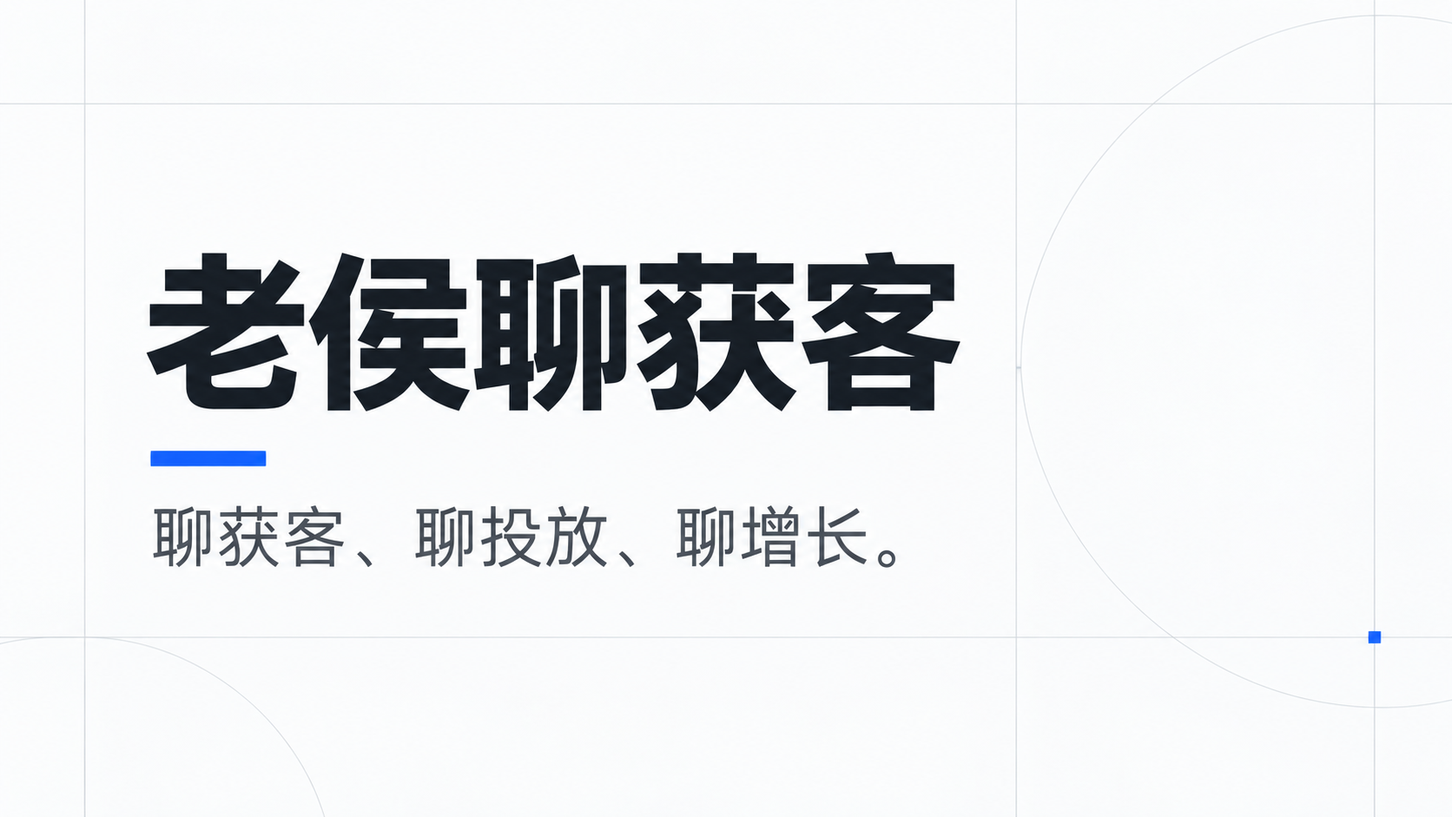
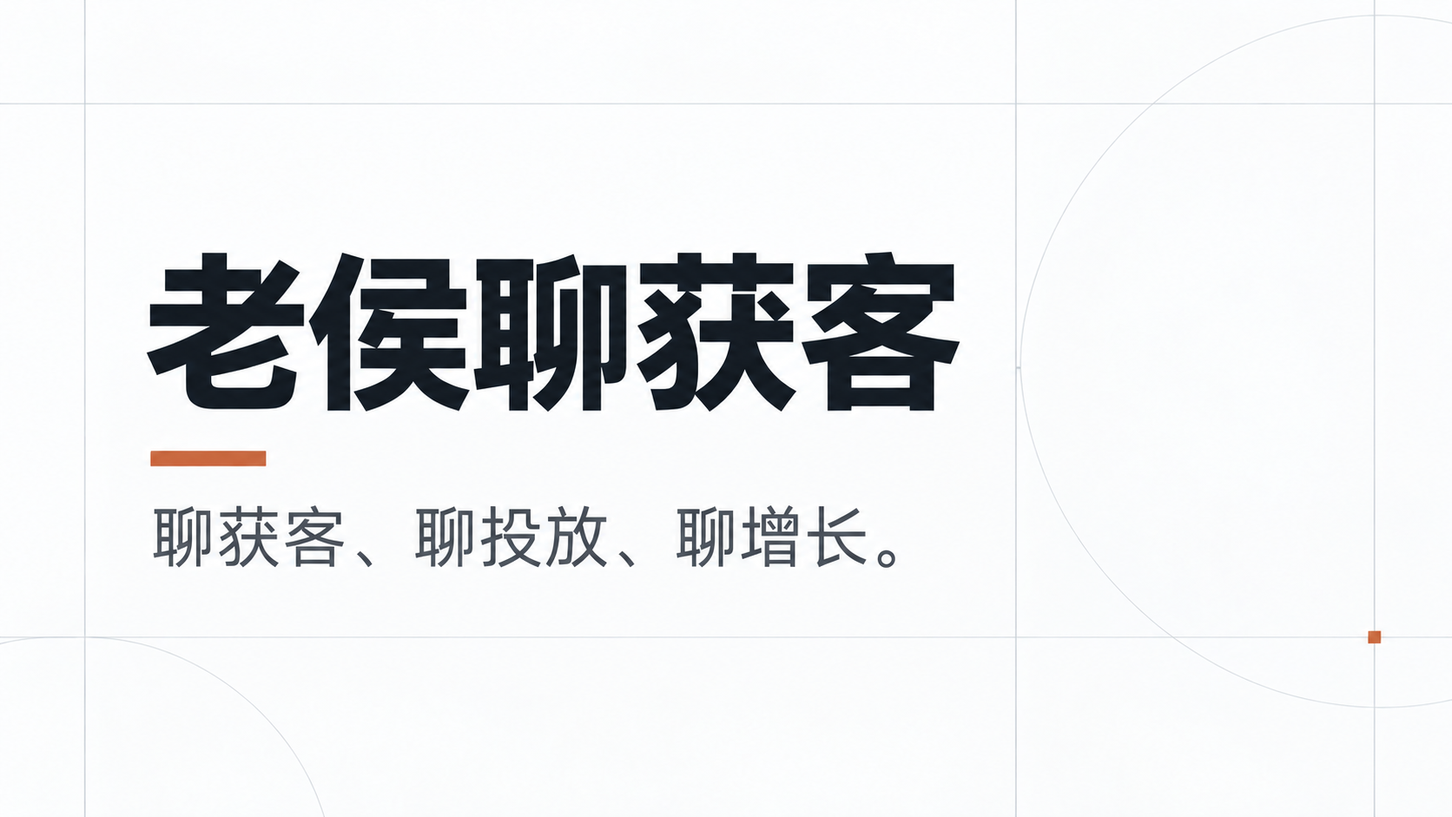
style: replace blue palette with warm tones

diff --git a/assets/style.css b/assets/style.css
@@ -1,32 +1,32 @@
-:root{--bg:#f7f8f7;--panel:#fff;--text:#101828;--muted:#667085;--soft:#98a2b3;--line:#e7e9e7;--blue:#2563eb;--blue-soft:#eef4ff;--green:#18733d;--max:1120px;--radius:14px;--shadow:0 8px 24px rgba(16,24,40,.035)}
+:root{--bg:#F8F6F3;--panel:#FFFDFB;--text:#241C18;--muted:#6F625B;--soft:#9A8B82;--line:#E8E0DA;--accent:#A64B2A;--accent-soft:#F6ECE7;--green:#18733d;--max:1120px;--radius:14px;--shadow:0 8px 24px rgba(65,45,35,.045)}
 *{box-sizing:border-box}html{scroll-behavior:smooth}body{margin:0;background:var(--bg);color:var(--text);font-family:Inter,-apple-system,BlinkMacSystemFont,"Segoe UI","PingFang SC","Hiragino Sans GB","Microsoft YaHei",Arial,sans-serif;line-height:1.72}a{text-decoration:none;color:inherit}img{max-width:100%;display:block}button,input,select{font:inherit}.wrap{width:min(var(--max),calc(100% - 40px));margin:auto}
-.site-header{position:sticky;top:0;z-index:50;background:color-mix(in srgb,var(--bg) 92%,transparent);backdrop-filter:blur(14px);border-bottom:1px solid var(--line)}.header-inner{height:68px;display:grid;grid-template-columns:auto 1fr auto;gap:28px;align-items:center}.logo{font-size:22px;font-weight:850;letter-spacing:-.04em;white-space:nowrap}.nav{display:flex;justify-content:center;gap:24px}.nav a{font-size:13px;color:var(--muted)}.nav a:hover,.nav a.active{color:var(--blue);font-weight:700}.head-actions{display:flex;align-items:center;gap:8px;white-space:nowrap}.contact-link{font-size:13px;color:var(--blue);font-weight:700}.avatar{width:38px;height:38px;border-radius:50%;object-fit:cover;border:2px solid var(--panel)}
-.hero{display:grid;grid-template-columns:1.2fr .8fr;gap:48px;align-items:center;padding:68px 0 56px}.eyebrow{font-size:13px;color:var(--muted);margin-bottom:10px}.hero h1{font-size:52px;line-height:1.08;letter-spacing:-.055em;margin:0 0 16px}.hero h1 span{color:var(--blue)}.hero .slogan{font-size:22px;font-weight:700;margin-bottom:16px}.hero p{font-size:16px;color:var(--muted);max-width:720px;margin:0}.hero-actions{display:flex;gap:12px;flex-wrap:wrap;margin-top:26px}.btn{display:inline-flex;align-items:center;justify-content:center;min-height:44px;padding:0 16px;border-radius:10px;border:1px solid var(--line);font-size:13px;font-weight:700;background:transparent}.btn.primary{background:var(--text);color:var(--bg);border-color:var(--text)}.btn:hover{transform:translateY(-1px)}.avatar-panel{display:flex;justify-content:center}.avatar-xl{width:210px;height:210px;border-radius:50%;object-fit:cover;border:6px solid var(--panel);box-shadow:0 12px 32px rgba(16,24,40,.06)}
-.social-row{display:flex;gap:14px;flex-wrap:wrap;margin-top:24px}.social-item{display:inline-flex;align-items:center;gap:8px;flex:0 0 auto;font-size:13px;color:var(--muted)}.social-item svg{width:22px;height:22px;flex:0 0 22px}.social-item:hover{color:var(--blue)}
-.section{padding:64px 0;border-top:0}.section.divided{border-top:1px solid var(--line)}.section.feature-section{padding:72px 0}.section.compact-section{padding:48px 0}.section-head{display:flex;justify-content:space-between;gap:20px;align-items:end;margin-bottom:24px}.feature-section .section-head{margin-bottom:30px}.section-head h2{font-size:28px;letter-spacing:-.035em;margin:0}.section-head p{font-size:13px;color:var(--muted);margin:5px 0 0}.section-head a{font-size:12px;color:var(--blue)}
-.grid-4{display:grid;grid-template-columns:repeat(4,1fr);gap:14px}.grid-3{display:grid;grid-template-columns:repeat(3,1fr);gap:14px}.card{background:var(--panel);border:1px solid var(--line);border-radius:var(--radius);padding:20px;transition:transform .18s ease,box-shadow .18s ease}.card h3{font-size:18px;line-height:1.45;margin:7px 0}.card p{font-size:13px;color:var(--muted);margin:0}.card .meta{font-size:11px;color:var(--soft)}.card .tag{display:inline-flex;margin-top:14px;padding:5px 9px;border-radius:8px;background:var(--blue-soft);color:var(--blue);font-size:11px;font-weight:700}.card .more{display:inline-block;margin-top:14px;color:var(--blue);font-size:12px;font-weight:700}.card:hover{transform:translateY(-2px);box-shadow:var(--shadow)}
+.site-header{position:sticky;top:0;z-index:50;background:color-mix(in srgb,var(--bg) 92%,transparent);backdrop-filter:blur(14px);border-bottom:1px solid var(--line)}.header-inner{height:68px;display:grid;grid-template-columns:auto 1fr auto;gap:28px;align-items:center}.logo{font-size:22px;font-weight:850;letter-spacing:-.04em;white-space:nowrap}.nav{display:flex;justify-content:center;gap:24px}.nav a{font-size:13px;color:var(--muted)}.nav a:hover,.nav a.active{color:var(--accent);font-weight:700}.head-actions{display:flex;align-items:center;gap:8px;white-space:nowrap}.contact-link{font-size:13px;color:var(--accent);font-weight:700}.avatar{width:38px;height:38px;border-radius:50%;object-fit:cover;border:2px solid var(--panel)}
+.hero{display:grid;grid-template-columns:1.2fr .8fr;gap:48px;align-items:center;padding:68px 0 56px}.eyebrow{font-size:13px;color:var(--muted);margin-bottom:10px}.hero h1{font-size:52px;line-height:1.08;letter-spacing:-.055em;margin:0 0 16px}.hero h1 span{color:var(--accent)}.hero .slogan{font-size:22px;font-weight:700;margin-bottom:16px}.hero p{font-size:16px;color:var(--muted);max-width:720px;margin:0}.hero-actions{display:flex;gap:12px;flex-wrap:wrap;margin-top:26px}.btn{display:inline-flex;align-items:center;justify-content:center;min-height:44px;padding:0 16px;border-radius:10px;border:1px solid var(--line);font-size:13px;font-weight:700;background:transparent}.btn.primary{background:var(--text);color:var(--bg);border-color:var(--text)}.btn:hover{transform:translateY(-1px)}.avatar-panel{display:flex;justify-content:center}.avatar-xl{width:210px;height:210px;border-radius:50%;object-fit:cover;border:6px solid var(--panel);box-shadow:0 12px 32px rgba(16,24,40,.06)}
+.social-row{display:flex;gap:14px;flex-wrap:wrap;margin-top:24px}.social-item{display:inline-flex;align-items:center;gap:8px;flex:0 0 auto;font-size:13px;color:var(--muted)}.social-item svg{width:22px;height:22px;flex:0 0 22px}.social-item:hover{color:var(--accent)}
+.section{padding:64px 0;border-top:0}.section.divided{border-top:1px solid var(--line)}.section.feature-section{padding:72px 0}.section.compact-section{padding:48px 0}.section-head{display:flex;justify-content:space-between;gap:20px;align-items:end;margin-bottom:24px}.feature-section .section-head{margin-bottom:30px}.section-head h2{font-size:28px;letter-spacing:-.035em;margin:0}.section-head p{font-size:13px;color:var(--muted);margin:5px 0 0}.section-head a{font-size:12px;color:var(--accent)}
+.grid-4{display:grid;grid-template-columns:repeat(4,1fr);gap:14px}.grid-3{display:grid;grid-template-columns:repeat(3,1fr);gap:14px}.card{background:var(--panel);border:1px solid var(--line);border-radius:var(--radius);padding:20px;transition:transform .18s ease,box-shadow .18s ease}.card h3{font-size:18px;line-height:1.45;margin:7px 0}.card p{font-size:13px;color:var(--muted);margin:0}.card .meta{font-size:11px;color:var(--soft)}.card .tag{display:inline-flex;margin-top:14px;padding:5px 9px;border-radius:8px;background:var(--accent-soft);color:var(--accent);font-size:11px;font-weight:700}.card .more{display:inline-block;margin-top:14px;color:var(--accent);font-size:12px;font-weight:700}.card:hover{transform:translateY(-2px);box-shadow:var(--shadow)}
 .research-list{display:grid;grid-template-columns:repeat(4,minmax(0,1fr));gap:28px}.research-card{padding:16px 0;background:transparent;border-top:1px solid var(--line);border-radius:0}.research-card b{display:block;font-size:16px;margin-bottom:8px}.research-card span{font-size:13px;color:var(--muted)}
-.page-head{padding:64px 0 30px}.page-head h1{font-size:40px;letter-spacing:-.045em;margin:0 0 9px}.page-head p{color:var(--muted);margin:0;max-width:760px}.filter-bar{display:flex;flex-wrap:wrap;gap:8px;margin:18px 0}.filter-btn{border:1px solid var(--line);background:var(--panel);color:var(--muted);border-radius:10px;padding:8px 12px;font-size:12px;cursor:pointer}.filter-btn.active{background:var(--text);color:var(--bg);border-color:var(--text)}.search-input{width:100%;min-height:46px;border:1px solid var(--line);border-radius:10px;background:var(--panel);color:var(--text);padding:0 14px;outline:none}.search-input:focus{border-color:var(--blue);box-shadow:0 0 0 3px var(--blue-soft)}
-.list{display:grid;gap:12px;padding:8px 0 48px}.list-item{background:var(--panel);border:1px solid var(--line);border-radius:14px;padding:19px 20px}.list-item .meta{font-size:11px;color:var(--soft)}.list-item h2{font-size:21px;margin:4px 0 6px}.list-item p{font-size:13px;color:var(--muted);margin:0}.list-item .more{display:inline-block;margin-top:10px;font-size:12px;color:var(--blue);font-weight:700}
-.tool-grid{display:grid;grid-template-columns:repeat(3,1fr);gap:14px;padding-bottom:48px}.tool-card{background:var(--panel);border:1px solid var(--line);border-radius:14px;padding:20px}.tool-card h3{margin:7px 0;font-size:18px}.tool-card p{margin:0;color:var(--muted);font-size:13px}.tool-card .icon{width:42px;height:42px;border-radius:10px;background:var(--blue-soft);color:var(--blue);display:grid;place-items:center;font-weight:800}
-.tool-shell{max-width:920px;margin:0 auto;padding:56px 0 80px}.tool-shell h1{font-size:38px;margin:0 0 8px}.tool-shell .lead{color:var(--muted);margin-bottom:24px}.form-grid{display:grid;grid-template-columns:repeat(2,1fr);gap:14px}.field label{display:block;font-size:12px;color:var(--muted);margin-bottom:6px}.field input{width:100%;height:44px;border:1px solid var(--line);border-radius:10px;padding:0 12px;background:var(--panel);color:var(--text)}.result-grid{display:grid;grid-template-columns:repeat(4,1fr);gap:10px;margin-top:20px}.result{background:var(--panel);border:1px solid var(--line);border-radius:14px;padding:14px}.result span{display:block;font-size:11px;color:var(--soft)}.result b{font-size:20px}.notice{margin-top:18px;padding:14px 16px;background:var(--panel);border-left:3px solid var(--blue);font-size:13px;color:var(--muted)}.error{color:#b42318;font-size:12px;margin-top:10px}.funnel{display:grid;gap:8px;margin-top:22px}.funnel-row{margin:auto;background:var(--blue-soft);border:1px solid var(--line);border-radius:10px;padding:12px 8px;text-align:center;min-width:10%;transition:width .2s ease}.funnel-row b{display:block;white-space:nowrap}.funnel-row small{color:var(--muted);display:block;white-space:nowrap}.empty-result{padding:28px;text-align:center;color:var(--soft);background:var(--panel);border:1px solid var(--line);border-radius:14px}
-.service-grid{display:grid;grid-template-columns:repeat(2,1fr);gap:18px;padding-bottom:64px}.service-card{background:var(--panel);border:1px solid var(--line);border-radius:14px;padding:24px}.service-card h2{font-size:22px;margin:12px 0 8px}.service-card p{font-size:13px;color:var(--muted)}.service-card h3{font-size:14px;margin-top:18px}.service-card ul{padding-left:18px;color:var(--muted);font-size:13px}.service-value{font-size:15px!important;color:var(--text)!important;margin:0 0 22px!important}.service-fit{padding-top:16px;border-top:1px solid var(--line)}.service-fit strong{font-size:12px}.service-fit p{margin:5px 0 0}.price-note{display:inline-flex;padding:5px 8px;border-radius:8px;background:var(--blue-soft);color:var(--muted);font-size:11px}.service-details{margin:20px 0}.service-details summary{display:inline-flex;align-items:center;min-height:42px;color:var(--blue);font-size:13px;font-weight:700;cursor:pointer;list-style:none}.service-details summary::-webkit-details-marker{display:none}.service-details summary:after{content:"＋";margin-left:6px}.service-details[open] summary:after{content:"－"}.service-details>div{padding:4px 0 16px;border-top:1px solid var(--line)}
+.page-head{padding:64px 0 30px}.page-head h1{font-size:40px;letter-spacing:-.045em;margin:0 0 9px}.page-head p{color:var(--muted);margin:0;max-width:760px}.filter-bar{display:flex;flex-wrap:wrap;gap:8px;margin:18px 0}.filter-btn{border:1px solid var(--line);background:var(--panel);color:var(--muted);border-radius:10px;padding:8px 12px;font-size:12px;cursor:pointer}.filter-btn.active{background:var(--text);color:var(--bg);border-color:var(--text)}.search-input{width:100%;min-height:46px;border:1px solid var(--line);border-radius:10px;background:var(--panel);color:var(--text);padding:0 14px;outline:none}.search-input:focus{border-color:var(--accent);box-shadow:0 0 0 3px var(--accent-soft)}
+.list{display:grid;gap:12px;padding:8px 0 48px}.list-item{background:var(--panel);border:1px solid var(--line);border-radius:14px;padding:19px 20px}.list-item .meta{font-size:11px;color:var(--soft)}.list-item h2{font-size:21px;margin:4px 0 6px}.list-item p{font-size:13px;color:var(--muted);margin:0}.list-item .more{display:inline-block;margin-top:10px;font-size:12px;color:var(--accent);font-weight:700}
+.tool-grid{display:grid;grid-template-columns:repeat(3,1fr);gap:14px;padding-bottom:48px}.tool-card{background:var(--panel);border:1px solid var(--line);border-radius:14px;padding:20px}.tool-card h3{margin:7px 0;font-size:18px}.tool-card p{margin:0;color:var(--muted);font-size:13px}.tool-card .icon{width:42px;height:42px;border-radius:10px;background:var(--accent-soft);color:var(--accent);display:grid;place-items:center;font-weight:800}
+.tool-shell{max-width:920px;margin:0 auto;padding:56px 0 80px}.tool-shell h1{font-size:38px;margin:0 0 8px}.tool-shell .lead{color:var(--muted);margin-bottom:24px}.form-grid{display:grid;grid-template-columns:repeat(2,1fr);gap:14px}.field label{display:block;font-size:12px;color:var(--muted);margin-bottom:6px}.field input{width:100%;height:44px;border:1px solid var(--line);border-radius:10px;padding:0 12px;background:var(--panel);color:var(--text)}.result-grid{display:grid;grid-template-columns:repeat(4,1fr);gap:10px;margin-top:20px}.result{background:var(--panel);border:1px solid var(--line);border-radius:14px;padding:14px}.result span{display:block;font-size:11px;color:var(--soft)}.result b{font-size:20px}.notice{margin-top:18px;padding:14px 16px;background:var(--panel);border-left:3px solid var(--accent);font-size:13px;color:var(--muted)}.error{color:#b42318;font-size:12px;margin-top:10px}.funnel{display:grid;gap:8px;margin-top:22px}.funnel-row{margin:auto;background:var(--accent-soft);border:1px solid var(--line);border-radius:10px;padding:12px 8px;text-align:center;min-width:10%;transition:width .2s ease}.funnel-row b{display:block;white-space:nowrap}.funnel-row small{color:var(--muted);display:block;white-space:nowrap}.empty-result{padding:28px;text-align:center;color:var(--soft);background:var(--panel);border:1px solid var(--line);border-radius:14px}
+.service-grid{display:grid;grid-template-columns:repeat(2,1fr);gap:18px;padding-bottom:64px}.service-card{background:var(--panel);border:1px solid var(--line);border-radius:14px;padding:24px}.service-card h2{font-size:22px;margin:12px 0 8px}.service-card p{font-size:13px;color:var(--muted)}.service-card h3{font-size:14px;margin-top:18px}.service-card ul{padding-left:18px;color:var(--muted);font-size:13px}.service-value{font-size:15px!important;color:var(--text)!important;margin:0 0 22px!important}.service-fit{padding-top:16px;border-top:1px solid var(--line)}.service-fit strong{font-size:12px}.service-fit p{margin:5px 0 0}.price-note{display:inline-flex;padding:5px 8px;border-radius:8px;background:var(--accent-soft);color:var(--muted);font-size:11px}.service-details{margin:20px 0}.service-details summary{display:inline-flex;align-items:center;min-height:42px;color:var(--accent);font-size:13px;font-weight:700;cursor:pointer;list-style:none}.service-details summary::-webkit-details-marker{display:none}.service-details summary:after{content:"＋";margin-left:6px}.service-details[open] summary:after{content:"－"}.service-details>div{padding:4px 0 16px;border-top:1px solid var(--line)}
 .contact-grid{display:grid;grid-template-columns:1fr 1fr;gap:18px;padding-bottom:64px}.contact-card{background:var(--panel);border:1px solid var(--line);border-radius:14px;padding:20px}.contact-card h3{margin:0 0 7px}.contact-card p{color:var(--muted);font-size:13px}.qr{width:150px;height:150px;object-fit:contain;border:1px solid var(--line);border-radius:10px;background:var(--panel)}
-.article{max-width:760px;margin:0 auto;padding:64px 0 84px}.article .meta{font-size:12px;color:var(--soft)}.article h1{font-size:40px;line-height:1.3;letter-spacing:-.04em;margin:8px 0 22px}.article .lead{font-size:18px;color:var(--muted)}.article h2{font-size:24px;margin-top:36px}.article p,.article li{font-size:16px;color:var(--muted)}.article blockquote{margin:26px 0;padding:2px 0 2px 18px;border-left:3px solid var(--blue);color:var(--muted)}.article-footer{margin-top:52px;padding-top:28px;border-top:1px solid var(--line)}.article-nav{display:grid;grid-template-columns:1fr 1fr;gap:12px}.article-nav a{display:block;background:var(--panel);border:1px solid var(--line);border-radius:10px;padding:14px}.article-nav a:last-child{text-align:right}.article-nav span{display:block;color:var(--soft);font-size:11px}.article-nav b{display:block;margin-top:4px;font-size:13px;line-height:1.5}.related-title{font-size:18px!important;margin:30px 0 12px!important}.related-grid{display:grid;grid-template-columns:repeat(3,1fr);gap:10px}.related-grid a{background:var(--panel);border:1px solid var(--line);border-radius:10px;padding:12px;font-size:12px;line-height:1.55;color:var(--muted)}.back{display:inline-block;margin-top:28px;color:var(--blue);font-size:13px;font-weight:700}.filter-label{width:100%;margin-top:8px;color:var(--muted);font-size:12px;font-weight:700}
+.article{max-width:760px;margin:0 auto;padding:64px 0 84px}.article .meta{font-size:12px;color:var(--soft)}.article h1{font-size:40px;line-height:1.3;letter-spacing:-.04em;margin:8px 0 22px}.article .lead{font-size:18px;color:var(--muted)}.article h2{font-size:24px;margin-top:36px}.article p,.article li{font-size:16px;color:var(--muted)}.article blockquote{margin:26px 0;padding:2px 0 2px 18px;border-left:3px solid var(--accent);color:var(--muted)}.article-footer{margin-top:52px;padding-top:28px;border-top:1px solid var(--line)}.article-nav{display:grid;grid-template-columns:1fr 1fr;gap:12px}.article-nav a{display:block;background:var(--panel);border:1px solid var(--line);border-radius:10px;padding:14px}.article-nav a:last-child{text-align:right}.article-nav span{display:block;color:var(--soft);font-size:11px}.article-nav b{display:block;margin-top:4px;font-size:13px;line-height:1.5}.related-title{font-size:18px!important;margin:30px 0 12px!important}.related-grid{display:grid;grid-template-columns:repeat(3,1fr);gap:10px}.related-grid a{background:var(--panel);border:1px solid var(--line);border-radius:10px;padding:12px;font-size:12px;line-height:1.55;color:var(--muted)}.back{display:inline-block;margin-top:28px;color:var(--accent);font-size:13px;font-weight:700}.filter-label{width:100%;margin-top:8px;color:var(--muted);font-size:12px;font-weight:700}
 .home-cta{padding:34px;background:var(--panel);border:1px solid var(--line);border-radius:18px}.home-cta h2{font-size:28px;letter-spacing:-.035em;margin:0 0 10px}.home-cta p{max-width:780px;margin:0;color:var(--muted)}.home-cta .btn{margin-top:20px}.home-cta small{display:block;margin-top:12px;color:var(--muted)}
-.timeline{max-width:820px;display:grid;gap:0}.timeline-item{display:grid;grid-template-columns:90px 1fr;gap:22px;padding:0 0 28px}.timeline-year{font-size:13px;font-weight:800;color:var(--blue)}.timeline-copy{position:relative;padding-left:22px;color:var(--muted);font-size:14px}.timeline-item:not(:last-child) .timeline-copy{border-left:1px solid var(--line)}.timeline-copy:before{content:"";position:absolute;left:-6px;top:6px;width:11px;height:11px;border:2px solid var(--blue);border-radius:50%;background:var(--bg)}
-.checklist{max-width:860px;margin:0 auto;padding:56px 0 80px}.checklist-intro{color:var(--muted);max-width:720px}.checklist-grid{display:grid;grid-template-columns:1fr 1fr;gap:14px;margin-top:24px}.checklist-group{background:var(--panel);border:1px solid var(--line);border-radius:14px;padding:18px}.checklist-group h2{font-size:18px;margin:0 0 10px}.checklist-group label{display:flex;align-items:flex-start;gap:9px;padding:7px 0;color:var(--muted);font-size:13px;cursor:pointer}.checklist-group input{margin-top:4px;accent-color:var(--blue);flex:0 0 auto}
-.footer{margin-top:64px;border-top:1px solid var(--line);padding:48px 0 30px;color:var(--muted);font-size:12px}.footer-grid{display:grid;grid-template-columns:1.4fr 1fr 1fr;gap:28px}.footer-brand>a{font-size:18px;font-weight:800;color:var(--text)}.footer-brand p{margin:8px 0 0}.footer-links,.footer-social{display:grid;grid-template-columns:repeat(2,max-content);align-content:start;gap:8px 20px}.footer-links a:hover,.footer-social a:hover{color:var(--blue)}.footer-meta{grid-column:1/-1;padding-top:22px;border-top:1px solid var(--line);color:var(--soft)}.backtop{position:fixed;right:22px;bottom:22px;width:42px;height:42px;border:1px solid var(--line);border-radius:50%;background:var(--panel);color:var(--text);box-shadow:var(--shadow);display:none;place-items:center;cursor:pointer}.backtop.show{display:grid}
+.timeline{max-width:820px;display:grid;gap:0}.timeline-item{display:grid;grid-template-columns:90px 1fr;gap:22px;padding:0 0 28px}.timeline-year{font-size:13px;font-weight:800;color:var(--accent)}.timeline-copy{position:relative;padding-left:22px;color:var(--muted);font-size:14px}.timeline-item:not(:last-child) .timeline-copy{border-left:1px solid var(--line)}.timeline-copy:before{content:"";position:absolute;left:-6px;top:6px;width:11px;height:11px;border:2px solid var(--accent);border-radius:50%;background:var(--bg)}
+.checklist{max-width:860px;margin:0 auto;padding:56px 0 80px}.checklist-intro{color:var(--muted);max-width:720px}.checklist-grid{display:grid;grid-template-columns:1fr 1fr;gap:14px;margin-top:24px}.checklist-group{background:var(--panel);border:1px solid var(--line);border-radius:14px;padding:18px}.checklist-group h2{font-size:18px;margin:0 0 10px}.checklist-group label{display:flex;align-items:flex-start;gap:9px;padding:7px 0;color:var(--muted);font-size:13px;cursor:pointer}.checklist-group input{margin-top:4px;accent-color:var(--accent);flex:0 0 auto}
+.footer{margin-top:64px;border-top:1px solid var(--line);padding:48px 0 30px;color:var(--muted);font-size:12px}.footer-grid{display:grid;grid-template-columns:1.4fr 1fr 1fr;gap:28px}.footer-brand>a{font-size:18px;font-weight:800;color:var(--text)}.footer-brand p{margin:8px 0 0}.footer-links,.footer-social{display:grid;grid-template-columns:repeat(2,max-content);align-content:start;gap:8px 20px}.footer-links a:hover,.footer-social a:hover{color:var(--accent)}.footer-meta{grid-column:1/-1;padding-top:22px;border-top:1px solid var(--line);color:var(--soft)}.backtop{position:fixed;right:22px;bottom:22px;width:42px;height:42px;border:1px solid var(--line);border-radius:50%;background:var(--panel);color:var(--text);box-shadow:var(--shadow);display:none;place-items:center;cursor:pointer}.backtop.show{display:grid}
 @media(max-width:900px){.grid-4{grid-template-columns:1fr 1fr}.grid-3,.tool-grid{grid-template-columns:1fr 1fr}.hero{grid-template-columns:1fr}.avatar-panel{justify-content:flex-start}.avatar-xl{width:150px;height:150px}.result-grid{grid-template-columns:1fr 1fr}}
 @media(max-width:720px){.header-inner{height:auto;min-height:64px;grid-template-columns:minmax(0,1fr) auto;gap:10px 14px;padding:10px 0}.nav{grid-column:1/-1;display:flex;justify-content:flex-start;gap:8px 16px;overflow-x:auto;-webkit-overflow-scrolling:touch;scrollbar-width:none;padding-bottom:8px}.nav::-webkit-scrollbar{display:none}.nav a{white-space:nowrap}.head-actions{justify-content:flex-end;flex-shrink:0}.contact-link{display:inline-flex}.wrap{width:min(var(--max),calc(100% - 24px))}.hero{padding:42px 0}.hero h1{font-size:40px}.grid-4,.grid-3,.tool-grid,.service-grid,.contact-grid,.form-grid,.checklist-grid{grid-template-columns:1fr}.result-grid{grid-template-columns:1fr 1fr}.article h1{font-size:32px}.article-nav,.related-grid{grid-template-columns:1fr}.article-nav a:last-child{text-align:left}.funnel-row{min-width:20%}.funnel-row small{white-space:normal}.timeline-item{grid-template-columns:68px 1fr;gap:10px}.home-cta{padding:22px}.footer-inner{flex-direction:column}}
 
 /* V8 creator profile, article system and theme controls */
-html[data-theme="dark"]{--bg:#121212;--panel:#1b1b1b;--text:#f5f5f5;--muted:#b7b7b7;--soft:#8b8b8b;--line:#2c2c2c;--blue:#6ea8ff;--blue-soft:#17233a;--shadow:0 8px 24px rgba(0,0,0,.16);color-scheme:dark}
+html[data-theme="dark"]{--bg:#171311;--panel:#211B18;--text:#F7F0EA;--muted:#C1B5AC;--soft:#95877D;--line:#3A302B;--accent:#E5A078;--accent-soft:#34241D;--shadow:0 8px 24px rgba(0,0,0,.2);color-scheme:dark}
 .site-header{background:color-mix(in srgb,var(--bg) 92%,transparent)}
 .header-icon{width:34px;height:34px;border:0;border-radius:9px;background:transparent;color:var(--muted);display:inline-grid;place-items:center;cursor:pointer;font-size:13px;font-weight:750}.language-switch{width:auto;padding:0 7px}.header-icon:hover{background:color-mix(in srgb,var(--text) 7%,transparent);color:var(--text)}.theme-toggle svg{width:18px;height:18px;fill:none;stroke:currentColor;stroke-width:1.8;stroke-linecap:round;stroke-linejoin:round}.moon-icon{display:none}html[data-theme="dark"] .sun-icon{display:none}html[data-theme="dark"] .moon-icon{display:block}
-.creator-hero{display:grid;grid-template-columns:minmax(240px,35%) minmax(0,65%);gap:72px;align-items:start;padding:76px 0 68px}.creator-profile{padding:4px 0;background:transparent;border:0;border-radius:0;box-shadow:none}.creator-profile .avatar-xl{width:132px;height:132px;margin-bottom:22px}.creator-profile h1{font-size:34px;line-height:1.15;margin:0 0 8px}.creator-role{font-weight:700;margin:0 0 5px}.creator-slogan{color:var(--muted);margin:0}.creator-about{padding:8px 0}.creator-about .eyebrow{color:var(--blue);font-weight:750}.creator-about h2{font-size:42px;letter-spacing:-.045em;margin:0 0 22px}.creator-about p{color:var(--muted);margin:0 0 14px}.creator-about .more{display:inline-block;margin-top:10px;color:var(--blue);font-weight:750;font-size:13px}
-.article-grid{display:grid;grid-template-columns:repeat(3,minmax(0,1fr));gap:18px;padding:8px 0 24px}.article-card{min-width:0;overflow:hidden;background:var(--panel);border:1px solid var(--line);border-radius:14px;transition:transform .18s ease,box-shadow .18s ease}.article-card:hover{transform:translateY(-2px);box-shadow:var(--shadow)}.article-cover{width:100%;aspect-ratio:16/9;object-fit:cover;background:var(--blue-soft)}.article-card-body{display:flex;flex-direction:column;min-height:238px;padding:17px 18px 19px}.article-card-category{font-size:11px;color:var(--blue);font-weight:750}.article-card h2{display:-webkit-box;-webkit-line-clamp:2;-webkit-box-orient:vertical;overflow:hidden;min-height:2.9em;font-size:19px;line-height:1.45;margin:8px 0}.article-card p{display:-webkit-box;-webkit-line-clamp:3;-webkit-box-orient:vertical;overflow:hidden;min-height:4.65em;color:var(--muted);font-size:13px;margin:0}.article-card-footer{display:flex;justify-content:space-between;gap:12px;margin-top:auto;padding-top:16px;font-size:11px;color:var(--soft)}.article-hero-cover{width:100%;aspect-ratio:16/9;object-fit:cover;border:1px solid var(--line);border-radius:14px;margin:22px 0 30px}.wechat-source{margin-top:28px;padding:16px;background:var(--blue-soft);border-radius:10px;color:var(--muted);font-size:13px}.wechat-source a{color:var(--blue);font-weight:750}
-.about-hero{display:grid;grid-template-columns:minmax(240px,35%) minmax(0,65%);gap:72px;padding:72px 0 64px}.about-side .avatar-xl{width:124px;height:124px;margin-bottom:20px}.about-side h1{font-size:34px;margin:0 0 8px}.about-copy h2{font-size:42px;letter-spacing:-.045em;margin:0 0 22px}.about-copy p{color:var(--muted);margin:0 0 14px}.profile-links{display:flex;flex-wrap:wrap;gap:8px 16px;margin-top:20px}.profile-links a{font-size:12px;color:var(--muted)}.profile-links a:hover{color:var(--blue)}
+.creator-hero{display:grid;grid-template-columns:minmax(240px,35%) minmax(0,65%);gap:72px;align-items:start;padding:76px 0 68px}.creator-profile{padding:4px 0;background:transparent;border:0;border-radius:0;box-shadow:none}.creator-profile .avatar-xl{width:132px;height:132px;margin-bottom:22px}.creator-profile h1{font-size:34px;line-height:1.15;margin:0 0 8px}.creator-role{font-weight:700;margin:0 0 5px}.creator-slogan{color:var(--muted);margin:0}.creator-about{padding:8px 0}.creator-about .eyebrow{color:var(--accent);font-weight:750}.creator-about h2{font-size:42px;letter-spacing:-.045em;margin:0 0 22px}.creator-about p{color:var(--muted);margin:0 0 14px}.creator-about .more{display:inline-block;margin-top:10px;color:var(--accent);font-weight:750;font-size:13px}
+.article-grid{display:grid;grid-template-columns:repeat(3,minmax(0,1fr));gap:18px;padding:8px 0 24px}.article-card{min-width:0;overflow:hidden;background:var(--panel);border:1px solid var(--line);border-radius:14px;transition:transform .18s ease,box-shadow .18s ease}.article-card:hover{transform:translateY(-2px);box-shadow:var(--shadow)}.article-cover{width:100%;aspect-ratio:16/9;object-fit:cover;background:var(--accent-soft)}.article-card-body{display:flex;flex-direction:column;min-height:238px;padding:17px 18px 19px}.article-card-category{font-size:11px;color:var(--accent);font-weight:750}.article-card h2{display:-webkit-box;-webkit-line-clamp:2;-webkit-box-orient:vertical;overflow:hidden;min-height:2.9em;font-size:19px;line-height:1.45;margin:8px 0}.article-card p{display:-webkit-box;-webkit-line-clamp:3;-webkit-box-orient:vertical;overflow:hidden;min-height:4.65em;color:var(--muted);font-size:13px;margin:0}.article-card-footer{display:flex;justify-content:space-between;gap:12px;margin-top:auto;padding-top:16px;font-size:11px;color:var(--soft)}.article-hero-cover{width:100%;aspect-ratio:16/9;object-fit:cover;border:1px solid var(--line);border-radius:14px;margin:22px 0 30px}.wechat-source{margin-top:28px;padding:16px;background:var(--accent-soft);border-radius:10px;color:var(--muted);font-size:13px}.wechat-source a{color:var(--accent);font-weight:750}
+.about-hero{display:grid;grid-template-columns:minmax(240px,35%) minmax(0,65%);gap:72px;padding:72px 0 64px}.about-side .avatar-xl{width:124px;height:124px;margin-bottom:20px}.about-side h1{font-size:34px;margin:0 0 8px}.about-copy h2{font-size:42px;letter-spacing:-.045em;margin:0 0 22px}.about-copy p{color:var(--muted);margin:0 0 14px}.profile-links{display:flex;flex-wrap:wrap;gap:8px 16px;margin-top:20px}.profile-links a{font-size:12px;color:var(--muted)}.profile-links a:hover{color:var(--accent)}
 html[data-theme="dark"] .btn.primary,html[data-theme="dark"] .filter-btn.active{background:var(--text);color:var(--bg)}html[data-theme="dark"] .avatar,html[data-theme="dark"] .avatar-xl{border-color:var(--panel)}
 @media(max-width:900px){.creator-hero,.about-hero{grid-template-columns:1fr;gap:34px}.creator-profile{display:grid;grid-template-columns:auto 1fr;column-gap:20px}.creator-profile .avatar-xl,.creator-profile .social-row{grid-row:auto}.creator-profile .social-row{grid-column:1/-1}.article-grid{grid-template-columns:repeat(2,minmax(0,1fr))}.research-list{grid-template-columns:repeat(2,minmax(0,1fr))}.footer-grid{grid-template-columns:1fr 1fr}.footer-brand{grid-column:1/-1}}
 @media(max-width:720px){.logo{font-size:19px}.head-actions{gap:2px}.header-icon{height:32px}.language-switch{font-size:12px}.contact-link{font-size:12px}.creator-hero,.about-hero{padding:44px 0 48px}.creator-profile{display:block;padding:0}.creator-profile .avatar-xl,.about-side .avatar-xl{width:104px;height:104px}.creator-about h2,.about-copy h2{font-size:34px}.section{padding:44px 0}.section.feature-section{padding:52px 0}.section.compact-section{padding:36px 0}.article-grid,.research-list{grid-template-columns:1fr}.article-card-body{min-height:220px}.footer-grid{grid-template-columns:1fr}.footer-brand{grid-column:auto}.footer-links,.footer-social{grid-template-columns:repeat(3,max-content)}.footer-meta{grid-column:auto}.service-card{padding:20px}}

diff --git a/index.html b/index.html
@@ -1,7 +1,7 @@
 <!doctype html><html lang="zh-CN"><head><meta charset="utf-8"><link rel="icon" href="/assets/favicon.svg" type="image/svg+xml"><meta name="viewport" content="width=device-width,initial-scale=1"><title>老侯聊获客｜聊获客、聊投放、聊增长</title><meta name="description" content="老侯聊获客：企业获客、广告投放、线索转化与商业增长实战内容、工具和服务。"><link rel="canonical" href="https://2224878257-pixel.github.io/"><link rel="alternate" hreflang="en" href="https://2224878257-pixel.github.io/en/"><meta property="og:title" content="老侯聊获客｜聊获客、聊投放、聊增长"><meta property="og:description" content="老侯聊获客：企业获客、广告投放、线索转化与商业增长实战内容、工具和服务。"><meta property="og:type" content="website"><meta property="og:url" content="https://2224878257-pixel.github.io/"><script src="/assets/theme-init.js"></script><link rel="stylesheet" href="/assets/style.css"><meta property="og:image" content="https://2224878257-pixel.github.io/assets/og-cover.png"><meta name="twitter:card" content="summary_large_image"></head><body>
 <header class="site-header"><div class="wrap header-inner"><a class="logo" href="/">老侯聊获客</a><nav class="nav"><a href="/about/">关于我</a><a href="/cases/">实战案例</a><a href="/articles/">文章</a><a href="/tools/">工具</a><a href="/services/">专业服务</a></nav><div class="head-actions"><a class="header-icon language-switch" href="/en/" aria-label="Switch to English">中 / EN</a><button class="header-icon theme-toggle" type="button" aria-label="切换深色模式"><svg class="sun-icon" viewBox="0 0 24 24" aria-hidden="true"><circle cx="12" cy="12" r="4"/><path d="M12 2v2M12 20v2M4.9 4.9l1.4 1.4M17.7 17.7l1.4 1.4M2 12h2M20 12h2M4.9 19.1l1.4-1.4M17.7 6.3l1.4-1.4"/></svg><svg class="moon-icon" viewBox="0 0 24 24" aria-hidden="true"><path d="M20 15.2A8.5 8.5 0 0 1 8.8 4 8.5 8.5 0 1 0 20 15.2Z"/></svg></button><a class="contact-link" href="/contact/">联系我</a></div></div></header>
 <main><div class="wrap">
-<section class="creator-hero"><div class="creator-profile"><img class="avatar-xl" src="https://avatars.githubusercontent.com/u/267829894?v=4" alt="老侯头像"><h1>老侯</h1><p class="creator-role">企业获客与商业增长实战顾问</p><p class="creator-slogan">聊获客、聊投放、聊增长。</p><div class="social-row"><a class="social-item" href="/contact/" aria-label="微信公众号"><svg viewBox="0 0 24 24" aria-hidden="true"><path d="M10 4C5.6 4 2 6.8 2 10.2c0 2 1.2 3.8 3.1 4.9l-.8 2.4 2.9-1.4c.9.2 1.8.4 2.8.4 4.4 0 8-2.8 8-6.3S14.4 4 10 4Z" fill="#07c160"/><path d="M15.3 9.2c3.7 0 6.7 2.3 6.7 5.2 0 1.7-1 3.2-2.5 4.1l.6 2-2.3-1.1c-.8.2-1.6.3-2.5.3-3.7 0-6.7-2.3-6.7-5.2s3-5.3 6.7-5.3Z" fill="#07c160"/></svg><span>微信公众号</span></a><a class="social-item" data-config-link="xiaohongshu" href="#" target="_blank" rel="noopener"><svg viewBox="0 0 24 24" aria-hidden="true"><rect x="1.5" y="1.5" width="21" height="21" rx="6" fill="#ff2442"/><path d="M6.5 6.7h8.2a2.8 2.8 0 0 1 2.8 2.8v7.8H9.3a2.8 2.8 0 0 1-2.8-2.8V6.7Z" fill="none" stroke="#fff" stroke-width="1.7"/></svg><span>小红书</span></a><a class="social-item" data-config-link="douyin" href="#" target="_blank" rel="noopener"><svg viewBox="0 0 24 24" aria-hidden="true"><rect x="1.5" y="1.5" width="21" height="21" rx="6" fill="#111"/><path d="M13 6v7.2a3.4 3.4 0 1 1-2.2-3.2v2.2a1.55 1.55 0 1 0 .45 1.1V6h1.75c.32 1.7 1.4 2.9 3.05 3.45v1.85A6.4 6.4 0 0 1 13 10" fill="#fff"/></svg><span>抖音</span></a><a class="social-item" data-config-link="x" href="#" target="_blank" rel="noopener"><svg viewBox="0 0 24 24" aria-hidden="true"><rect x="1.5" y="1.5" width="21" height="21" rx="6" fill="#111"/><path d="M7 6.5h2.6l2.9 3.85 3.2-3.85h1.7l-4.1 4.95 4.45 6.05h-2.6l-3.28-4.4-3.65 4.4H6.5l4.55-5.5z" fill="#fff"/></svg><span>X</span></a><a class="social-item" data-config-link="email" href="#"><svg viewBox="0 0 24 24" aria-hidden="true"><rect x="1.5" y="3.5" width="21" height="17" rx="4" fill="#2563eb"/><path d="m4.8 7.2 7.2 5.2 7.2-5.2" fill="none" stroke="#fff" stroke-width="1.7"/></svg><span>邮箱</span></a></div></div><div class="creator-about"><div class="eyebrow">独立创作者 · 专业顾问</div><h2>关于我</h2><p>我是老侯，做了7年多互联网广告投放。</p><p>这些年接触过教育、医美口腔、家装、招商加盟、B2B、本地生活等行业，也遇到过各种真实获客问题。</p><p>我更关注的不是单一平台怎么投，而是企业怎么从流量、线索、销售承接到最终成交，形成一套更稳定的获客体系。</p><p>现在我正在建立「老侯聊获客」，持续记录广告投放、企业获客、商业增长和 AI 提效中的实战经验、判断和工具。</p><a class="more" href="/about/">了解更多 →</a></div></section>
+<section class="creator-hero"><div class="creator-profile"><img class="avatar-xl" src="https://avatars.githubusercontent.com/u/267829894?v=4" alt="老侯头像"><h1>老侯</h1><p class="creator-role">企业获客与商业增长实战顾问</p><p class="creator-slogan">聊获客、聊投放、聊增长。</p><div class="social-row"><a class="social-item" href="/contact/" aria-label="微信公众号"><svg viewBox="0 0 24 24" aria-hidden="true"><path d="M10 4C5.6 4 2 6.8 2 10.2c0 2 1.2 3.8 3.1 4.9l-.8 2.4 2.9-1.4c.9.2 1.8.4 2.8.4 4.4 0 8-2.8 8-6.3S14.4 4 10 4Z" fill="#07c160"/><path d="M15.3 9.2c3.7 0 6.7 2.3 6.7 5.2 0 1.7-1 3.2-2.5 4.1l.6 2-2.3-1.1c-.8.2-1.6.3-2.5.3-3.7 0-6.7-2.3-6.7-5.2s3-5.3 6.7-5.3Z" fill="#07c160"/></svg><span>微信公众号</span></a><a class="social-item" data-config-link="xiaohongshu" href="#" target="_blank" rel="noopener"><svg viewBox="0 0 24 24" aria-hidden="true"><rect x="1.5" y="1.5" width="21" height="21" rx="6" fill="#ff2442"/><path d="M6.5 6.7h8.2a2.8 2.8 0 0 1 2.8 2.8v7.8H9.3a2.8 2.8 0 0 1-2.8-2.8V6.7Z" fill="none" stroke="#fff" stroke-width="1.7"/></svg><span>小红书</span></a><a class="social-item" data-config-link="douyin" href="#" target="_blank" rel="noopener"><svg viewBox="0 0 24 24" aria-hidden="true"><rect x="1.5" y="1.5" width="21" height="21" rx="6" fill="#111"/><path d="M13 6v7.2a3.4 3.4 0 1 1-2.2-3.2v2.2a1.55 1.55 0 1 0 .45 1.1V6h1.75c.32 1.7 1.4 2.9 3.05 3.45v1.85A6.4 6.4 0 0 1 13 10" fill="#fff"/></svg><span>抖音</span></a><a class="social-item" data-config-link="x" href="#" target="_blank" rel="noopener"><svg viewBox="0 0 24 24" aria-hidden="true"><rect x="1.5" y="1.5" width="21" height="21" rx="6" fill="#111"/><path d="M7 6.5h2.6l2.9 3.85 3.2-3.85h1.7l-4.1 4.95 4.45 6.05h-2.6l-3.28-4.4-3.65 4.4H6.5l4.55-5.5z" fill="#fff"/></svg><span>X</span></a><a class="social-item" data-config-link="email" href="#"><svg viewBox="0 0 24 24" aria-hidden="true"><rect x="1.5" y="3.5" width="21" height="17" rx="4" fill="#A64B2A"/><path d="m4.8 7.2 7.2 5.2 7.2-5.2" fill="none" stroke="#fff" stroke-width="1.7"/></svg><span>邮箱</span></a></div></div><div class="creator-about"><div class="eyebrow">独立创作者 · 专业顾问</div><h2>关于我</h2><p>我是老侯，做了7年多互联网广告投放。</p><p>这些年接触过教育、医美口腔、家装、招商加盟、B2B、本地生活等行业，也遇到过各种真实获客问题。</p><p>我更关注的不是单一平台怎么投，而是企业怎么从流量、线索、销售承接到最终成交，形成一套更稳定的获客体系。</p><p>现在我正在建立「老侯聊获客」，持续记录广告投放、企业获客、商业增长和 AI 提效中的实战经验、判断和工具。</p><a class="more" href="/about/">了解更多 →</a></div></section>
 <section class="section feature-section"><div class="section-head"><div><h2>最新文章</h2><p>长期记录真实工作中的问题和判断。</p></div><a href="/articles/">全部文章 →</a></div><div class="article-grid" data-latest-articles data-article-loading><p>正在加载最新文章…</p></div></section>
 <section class="section compact-section"><div class="section-head"><div><h2>我主要研究什么</h2><p>围绕企业真正的增长问题，而不是只看广告后台。</p></div></div><div class="research-list"><div class="research-card"><b>企业获客</b><span>目标客户、渠道、内容和销售承接。</span></div><div class="research-card"><b>广告投放</b><span>账户、素材、成本、冷启动和放量。</span></div><div class="research-card"><b>线索转化</b><span>有效线索、预约、到店和成交。</span></div><div class="research-card"><b>商业增长</b><span>产品、流量、销售和数据协同。</span></div></div></section>
 <section class="section divided"><div class="section-head"><div><h2>精选案例</h2><p>没有真实授权的数据，不发布虚构成绩。</p></div><a href="/cases/">全部案例 →</a></div><div class="grid-4"><a class="card" href="/cases/wechat-growth.html"><div class="meta">公众号 / 腾讯广告</div><h3>公众号增长项目复盘</h3><p>从账户、人群、素材到内容承接，拆解增长链路。</p><span class="tag">匿名案例</span></a><a class="card" href="/cases/local-business.html"><div class="meta">家装 / 本地获客</div><h3>县城装修获客诊断</h3><p>从线索质量、销售承接到成交能力逐层排查。</p><span class="tag">匿名案例</span></a><a class="card" href="/cases/publishing.html"><div class="meta">B2B / 专业服务</div><h3>图书出版行业获客</h3><p>专业服务型业务的人群、素材与销售承接分析。</p><span class="tag">匿名案例</span></a><a class="card" href="/cases/"><div class="meta">案例库</div><h3>更多实战案例</h3><p>按行业和广告平台持续整理。</p><span class="more">查看案例库 →</span></a></div></section>
